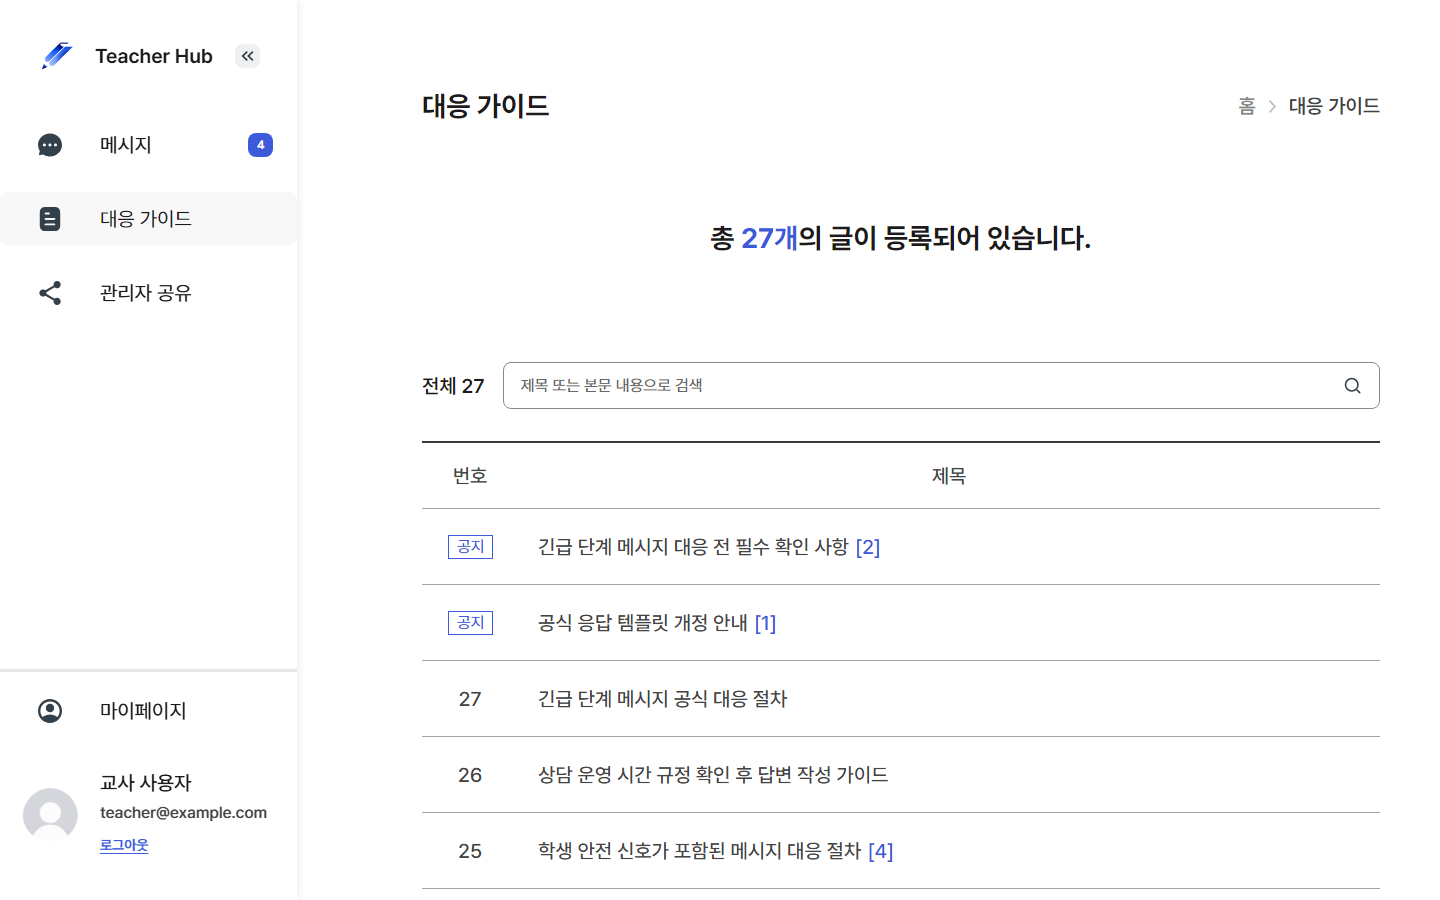
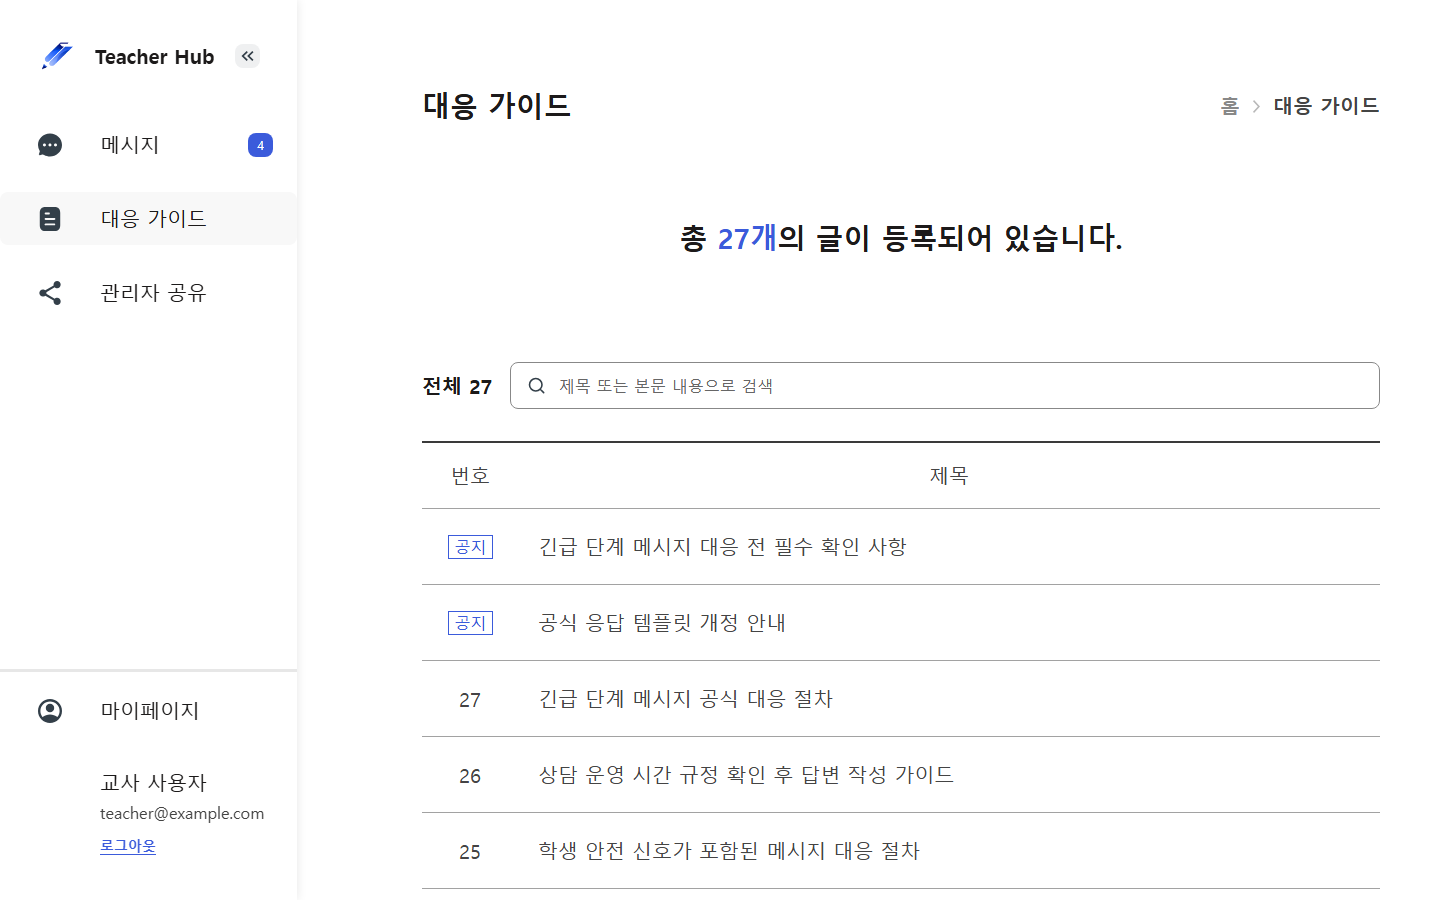
fix: 검색창 형식 통일과 공유 자동 검색 적용 (#91)

diff --git a/src/features/escalation/AdminSharePanel.tsx b/src/features/escalation/AdminSharePanel.tsx
@@ -1,4 +1,4 @@
-import { useCallback, useEffect, useState, type FormEvent } from 'react';
+import { useCallback, useEffect, useState } from 'react';
 import { SearchIcon } from '../../shared/components/teacher-shell/icons';
 import { AsyncContent } from '../../shared/components';
 import { Button, Dropdown, EmptyState, Tabs, TextField } from '../../shared/components/ui';
@@ -40,10 +40,13 @@ const emptyCopy: Record<StatusTab, { description: string; title: string }> = {
 export function AdminSharePanel() {
   const [searchInput, setSearchInput] = useState('');
   const [filters, setFilters] = useState<ListFilters>({ keyword: '', risk: 'all', status: 'all', page: 0 });
-  const search = (event: FormEvent<HTMLFormElement>) => {
-    event.preventDefault();
-    setFilters((current) => ({ ...current, keyword: searchInput.trim(), page: 0 }));
-  };
+  useEffect(() => {
+    const timer = window.setTimeout(() => {
+      const keyword = searchInput.trim();
+      setFilters((current) => current.keyword === keyword ? current : { ...current, keyword, page: 0 });
+    }, 300);
+    return () => window.clearTimeout(timer);
+  }, [searchInput]);
 
   return (
     <section className="teacher-admin-share-panel" aria-label="관리자 공유 현황">
@@ -62,7 +65,7 @@ export function AdminSharePanel() {
             value={filters.risk}
           />
         </div>
-        <form className="teacher-admin-share-search" onSubmit={search} role="search" aria-label="공유 내역 검색">
+        <div className="teacher-admin-share-search" role="search" aria-label="공유 내역 검색">
           <TextField
             aria-label="민원 제목 또는 학생명"
             containerClassName="board-search-field ui-search-field"
@@ -73,8 +76,7 @@ export function AdminSharePanel() {
             type="search"
             value={searchInput}
           />
-          <Button type="submit" variant="outline">검색</Button>
-        </form>
+        </div>
       </div>
       <AdminShareResults
         filters={filters}

diff --git a/src/pages/parent/MessageHistoryPage.tsx b/src/pages/parent/MessageHistoryPage.tsx
@@ -1,5 +1,5 @@
 import { useCallback, useState } from 'react';
-import { FilePenLine, Search, Star } from 'lucide-react';
+import { FilePenLine, Star } from 'lucide-react';
 import { Link, useNavigate, useSearchParams } from 'react-router-dom';
 import { useAuth } from '../../features/auth';
 import { ProfileAvatar } from '../../features/message/components/ProfileAvatar';
@@ -10,6 +10,7 @@ import { useParentMessages } from '../../features/parent-message/useParentMessag
 import { useServerHistorySync } from '../../features/parent-message/useServerHistorySync';
 import { getApiErrorMessage } from '../../shared/api';
 import { Badge, Button, EmptyState, Modal, StatusChip, Tabs, TextField, Toast } from '../../shared/components/ui';
+import { SearchIcon } from '../../shared/components/teacher-shell/icons';
 import '../../features/parent-message/ParentMessageHistory.css';
 
 export function MessageHistoryPage() {
@@ -48,7 +49,7 @@ function MessageHistory({ userId }: { userId: number }) {
 
   const content = <>
     <div className="parent-history-toolbar">
-      <TextField aria-label="문의 검색" containerClassName="parent-history-search ui-search-field" trailingIcon={<Search size={20} />}
+      <TextField aria-label="문의 검색" containerClassName="parent-history-search ui-search-field" leadingIcon={<SearchIcon />}
         onChange={(event) => setQuery(event.target.value)} placeholder="선생님 성함 또는 문의 내용으로 검색" type="search" value={query} />
     </div>
     {sync.error && !error ? <div className="parent-history-sync-error" role="alert">

diff --git a/src/features/safety/TeacherGuide.tsx b/src/features/safety/TeacherGuide.tsx
@@ -511,9 +511,6 @@ function GuidePostRow({
       <span className="guide-board-title-cell">
         <span className="guide-board-title">
           {post.title}
-          {post.comments > 0 ? (
-            <span className="guide-comment-count">[{post.comments}]</span>
-          ) : null}
         </span>
       </span>
     </button>
@@ -778,7 +775,7 @@ export function TeacherGuide() {
                   handleQueryChange(event.currentTarget.value)
                 }
                 placeholder="제목 또는 본문 내용으로 검색"
-                trailingIcon={<SearchIcon />}
+                leadingIcon={<SearchIcon />}
                 type="search"
                 value={query}
               />

diff --git a/src/features/escalation/components/AdminShareList.css b/src/features/escalation/components/AdminShareList.css
@@ -23,11 +23,6 @@
   display: flex;
   min-width: 0;
   flex: 1;
-  gap: var(--space-3);
-}
-
-.teacher-admin-share-search .ui-button {
-  flex-shrink: 0;
 }
 
 .teacher-admin-share-search .board-search-field {

diff --git a/src/features/safety/TeacherGuide.css b/src/features/safety/TeacherGuide.css
@@ -249,11 +249,6 @@
   overflow-wrap: anywhere;
 }
 
-.guide-comment-count {
-  margin-left: 6px;
-  color: var(--color-text-brand);
-}
-
 .guide-empty-state {
   margin-top: 0;
   border: 0;

diff --git a/docs/issue-91-ui/README.md b/docs/issue-91-ui/README.md
@@ -7,19 +7,26 @@
 - 교사 목록은 `추가 문의 도착`, 학부모 목록은 `새 답변 도착`으로 표시한다. 교사 상단 안내도 도착한 대화 건수로 설명한다. `needsTeacherReview`, `needsParentReview`, 확인 처리와 API 상태값은 유지한다.
 - 위험도 검토 툴팁은 “시스템 위험 점수와 교사 검토 점수는 서로 다른 기준입니다. 교사 검토는 1~7단계로 진행됩니다.”로 정리한다. 실제 점수 `n/100`은 유지하며 0점과 점수 미제공을 구분한다.
 - 대응 가이드 목록을 번호·제목 2열로 바꾸고 목록 날짜·조회수와 상세 등록일을 UI에서 제거한다. 날짜·조회수 데이터는 유지한다. 기존 모바일 `min-width: 760px`과 제목 한 줄 제한으로 생기던 가로 스크롤을 없애고 제목을 줄바꿈한다.
-- 교사 메시지, 대응 가이드, 학부모 문의, 교사의 관리자 공유 내역(`/teacher/admin-share`) 검색에 기존 `TextField`와 `ui-search-field`를 사용한다. 높이 47px, padding 16px, 아이콘 20px, 아이콘 간격 12px, 반경 8px과 기존 테두리·placeholder·hover·focus 토큰을 공유한다. 화면별 너비와 검색 방식·버튼·서버 검색어 100자 제한은 유지한다.
+- 교사 메시지, 대응 가이드, 학부모 문의, 교사의 관리자 공유 내역(`/teacher/admin-share`) 검색에 기존 `TextField`와 `ui-search-field`를 사용한다. 높이 47px, padding 16px, 아이콘 20px, 아이콘 간격 12px, 반경 8px과 기존 테두리·placeholder·hover·focus 토큰을 공유한다. 모두 메시지 화면과 같은 왼쪽 `SearchIcon`을 사용한다. 화면별 너비와 서버 검색어 100자 제한은 유지한다.
+- 관리자 공유는 검색 버튼을 제거하고 입력 종료 300ms 후 자동 검색한다. 검색어가 바뀌면 첫 페이지로 돌아가고, 공백 정리 후 같은 검색어이면 불필요한 재요청을 피한다. 검색어를 지우면 전체 결과로 복귀하며 늦은 응답을 무시하는 기존 처리를 유지한다.
+- 실제 댓글 기능이 없는 대응 가이드의 `[2]` 같은 댓글 수 표시와 전용 CSS를 제거한다.
 - 수정 전 가이드 검색창에 포커스를 주어도 테두리가 회색으로 남는 것을 자동화 테스트로 재현했다. 원인은 페이지 CSS가 공통 focus 테두리와 그림자를 덮어쓰던 것이며 해당 규칙을 제거했다.
 
 ## 화면 비교
 
 동일한 로컬 mock 데이터와 화면 크기를 사용했다. 모바일 이미지는 CSS viewport 375px, 기기 DPR 2.625다.
+변경 후 이미지는 왼쪽 검색 아이콘과 댓글 수 제거까지 반영했다. 캡처 환경의 외부 웹폰트 로딩 상태에 따른 글꼴 차이가 있으며, 앱의 글꼴 설정은 변경하지 않았다.
 
 | 화면 | 변경 전 | 변경 후 |
 | --- | --- | --- |
 | 가이드 1440px | ![데스크톱 변경 전](screenshots/guide-desktop-before.png) | ![데스크톱 변경 후](screenshots/guide-desktop-after.png) |
 | 가이드 375px | ![모바일 변경 전](screenshots/guide-mobile-before.png) | ![모바일 변경 후](screenshots/guide-mobile-after.png) |
 
+[관리자 공유 검색창 형식](screenshots/share-desktop-after.png): 로컬 공유 내역이 비어 있는 화면이며 검색 버튼을 제거했다.
+
 ## 검증
+
+검색 형식·자동 검색·댓글 수 제거 후 추가 검증: build/lint/TypeScript 통과, 검색/가이드 4개 및 관리자 공유 HTTP 10개 통과. 자동 검색, 첫 페이지 복귀, 100자 제한 유지, 검색어 삭제, 늦은 응답 무시, 페이지·탭·오류 재시도를 확인했다. 최초 개발 서버가 `.gstack` 브라우저 파일 잠금(EBUSY)으로 종료되어 테스트용 `CHOKIDAR_USEPOLLING=true`로 재실행했다. 기존 서버 종료로 실패한 모바일 UI 테스트도 새 서버에서 재검증했다. 제품 설정이나 테스트 timeout을 바꾸지 않았다.
 
 - `npm.cmd run build`: 통과. 기존 500kB 초과 번들 경고는 남아 있다.
 - `npm.cmd run lint`, `npx.cmd tsc -p tsconfig.playwright.json`: 통과.
